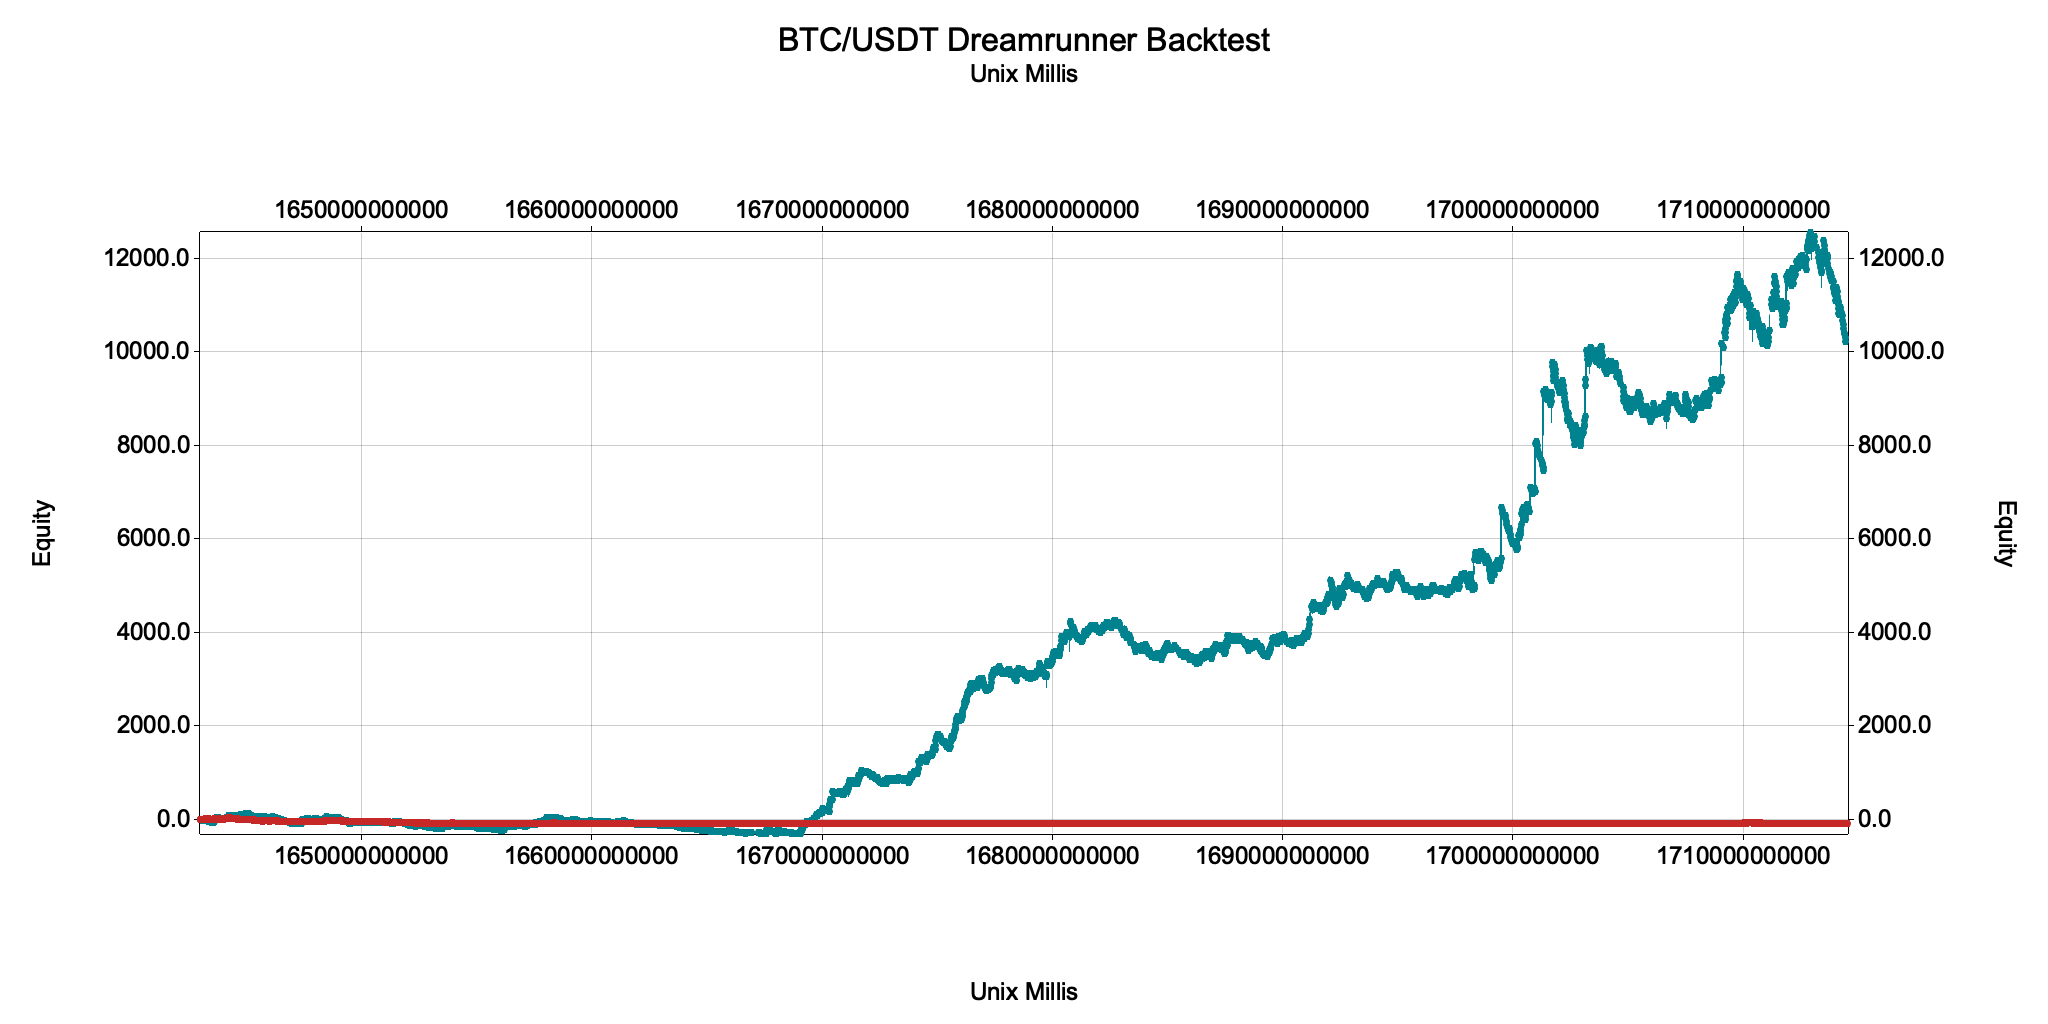
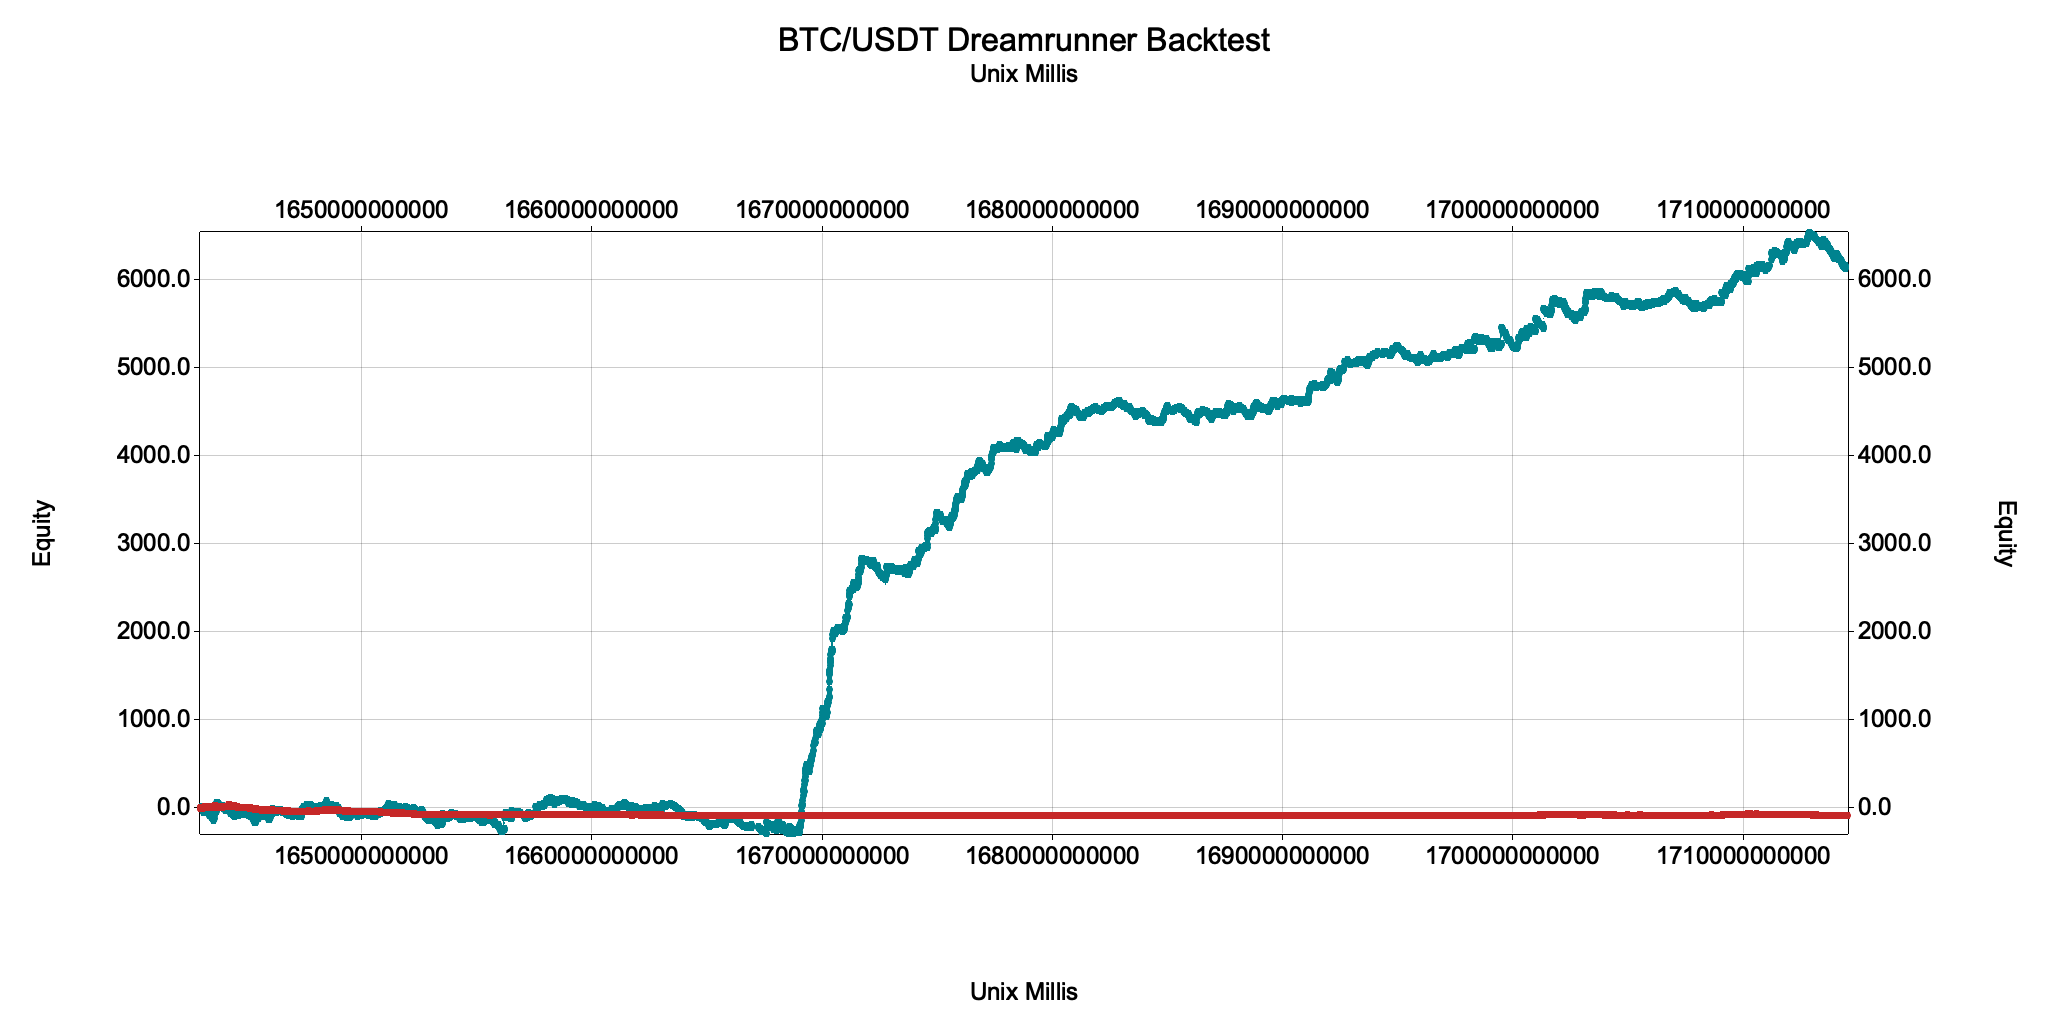
dreamrunner ATLASUSD

diff --git a/playbook/src/strategies/dreamrunner.rs b/playbook/src/strategies/dreamrunner.rs
@@ -401,9 +401,9 @@ async fn atlas_1h_backtest() -> anyhow::Result<()> {
   let stop_loss = 1.0;
   let capital = 1_000.0;
   let fee = 0.02;
-  let compound = true;
+  let compound = false;
   let leverage = 1;
-  let short_selling = false;
+  let short_selling = true;
   let strategy = Dreamrunner::atlasusd_1h_optimized(Some(stop_loss));
 
   let time_series = "atlasusd_1h.csv";
